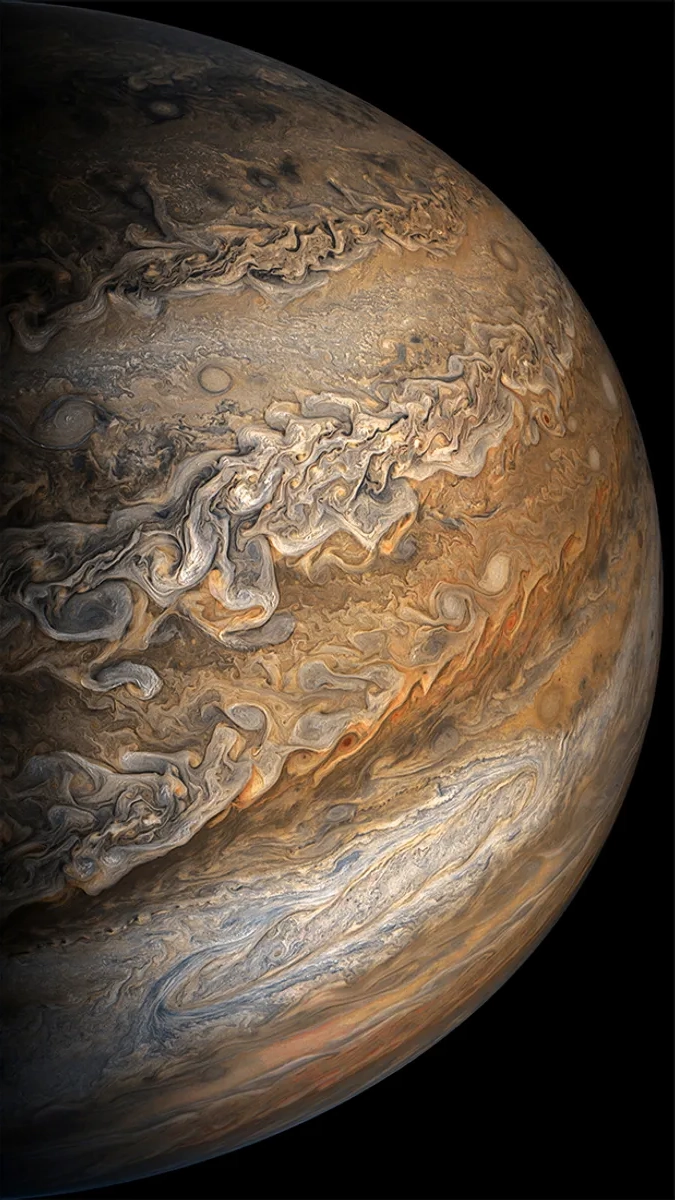
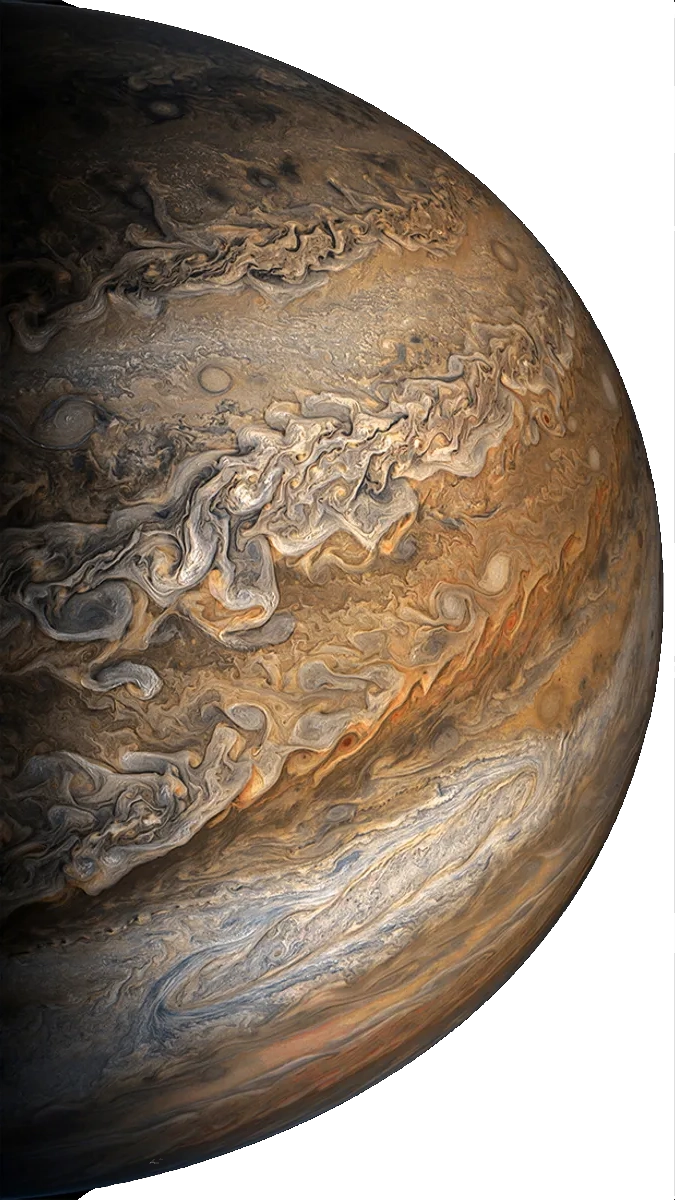
quick commit

Changed region(s): [[0.0933, 0.0, 1.0, 1.0]]

diff --git a/pages/index.vue b/pages/index.vue
@@ -4,9 +4,13 @@
 <template>
     <div>
       <section class="hero"  style="background-color: black">
-        <img class="parallax_4" style="width: 100vh" src="./img/parralax/0.webp" alt="">
-        <!-- <img class="parallax_7" src="/home/lewy/Code/Nyota-project/public/img/parralax/1.webp" alt="">
-        <img class="parallax_6" src="/home/lewy/Code/Nyota-project/public/img/parralax/2.webp" alt="">
+        <h1 class="parallax_1">Nyota</h1>
+        <img class="parallax_4" style="width: 100vh" src="/img/parralax/0.webp" alt="">
+        <img style="    width: 50%;
+    object-fit: contain;
+    right: -40vw;
+    position: relative;" class="parallax_7" src="/img/parralax/1.webp" alt="">
+        <!-- <img class="parallax_6" src="/home/lewy/Code/Nyota-project/public/img/parralax/2.webp" alt="">
         <img class="parallax_5" src="/home/lewy/Code/Nyota-project/public/img/parralax/3.webp" alt="">
         <img class="parallax_4" src="/home/lewy/Code/Nyota-project/public/img/parralax/4.webp" alt="">
         <img class="parallax_3" src="/home/lewy/Code/Nyota-project/public/img/parralax/5.webp" alt="">
@@ -16,6 +20,7 @@
     <section class="content">
         <h2>Previous projects</h2>
         <p>I've been developing websites for almost a decade at this point, here are just some examples</p><br>
+        <h3>Coming soon</h3>
         <article class="gallery">
             <img src="https://assets.codepen.io/1506195/unsplash-music-0.avif" alt="guitar player at concert" />
             <img src="https://assets.codepen.io/1506195/unsplash-music-1.avif" alt="duo singing" />
@@ -27,5 +32,6 @@
             <img src="https://assets.codepen.io/1506195/unsplash-music-7.avif" alt="woman singing on stage" />
         </article>    
     </section>
+    <section style="height: 100vh"></section>
     </div>
 </template>

diff --git a/components/ShopMenu.vue b/components/ShopMenu.vue
@@ -16,6 +16,7 @@ const { links } = defineProps(['links'])
       <div v-if="link.parent == 0 && link.name != 'Uncategorised'">
         <NuxtLink :to="`/categories/${link.id}`">{{ link.name }}</NuxtLink>
         <div v-for="sublink in links">
+          {{ sublink.parent }}
           <div style="margin-left: 20px;" v-if="sublink.parent == link.id">
             <NuxtLink :to="`/categories/${sublink.id}`">{{ sublink.name }}</NuxtLink>
           </div>
